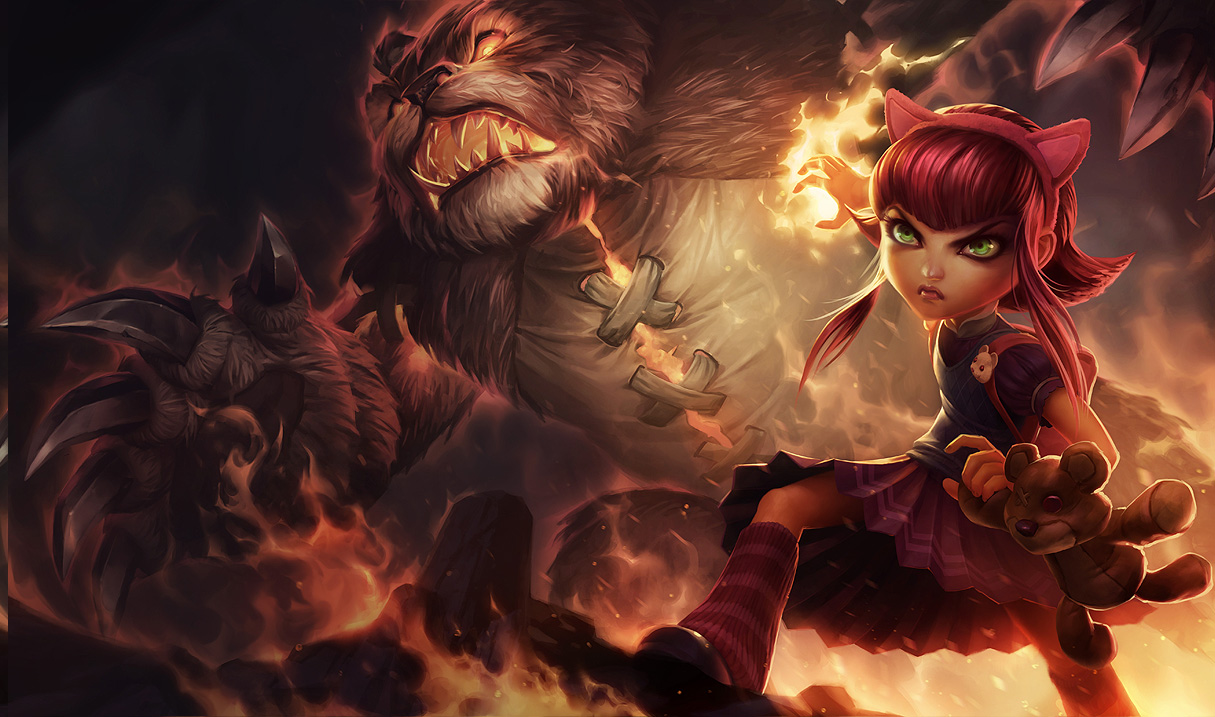
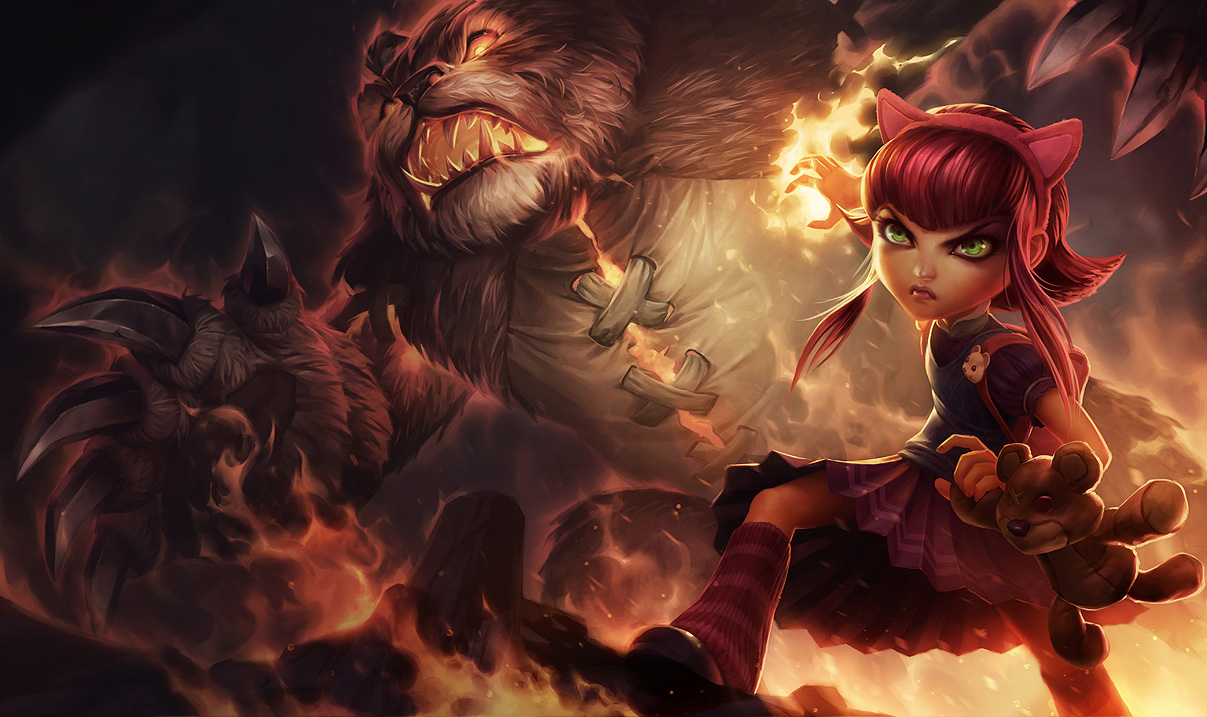
stretching bgs

diff --git a/styles.css b/styles.css
@@ -36,6 +36,7 @@ body {
 	height: 130px;
 	position: fixed;
 	background-color: #151515;
+	z-index: 50;
 }
 #toprow {
 	width: 100%;
@@ -91,6 +92,7 @@ textarea, input {
 #content {
 	width: 100%;
 	height: 100%;
+	background-size: 100%;
 }
 
 /* Name Block */
@@ -98,14 +100,18 @@ textarea, input {
 	height: 100px;
 	width: auto;
 	margin-left: 50px;
-	margin-top: 50px;
+	margin-top: 20px;
+	padding-left: 15px;
+	padding-right: 15px;
+	padding-bottom: 15px;
 	color: #EEEEEE;
 	display: inline-block;
 	background-color: #111111;
-	opacity: 0.5;
+	opacity: 0.6;
 }
 #name {
 	height: 80px;
+	font-size: 65px;
 }
 #title {
 	height: 20px;

diff --git a/scripts.js b/scripts.js
@@ -86,8 +86,8 @@ var drawSearch = function(champArray) {
 					'background-image': 'url(' + escape(champArray[j].portrait) + ')',
 					'background-repeat': 'no-repeat'
 				});
-				$('#name').innerHTML = champArray[j].name;
-				$('#title').innerHTML = champArray[j].title;
+				document.getElementById('name').innerHTML = champArray[j].name;
+				document.getElementById('title').innerHTML = champArray[j].title;
 			});
 		})();
 	}

diff --git a/index.html b/index.html
@@ -4,6 +4,13 @@
   Authors: Shannon Zhu, Carl Gao, Jesse Chen
 -->
 
+<!-- stretch image horizontally
+	 fade in 
+	 transitions in search bar
+	 fading out image vertically
+	 scrollbar
+	 winrate chart -->
+
 <html>
 	<head>
 		<!--Include CSS files-->
